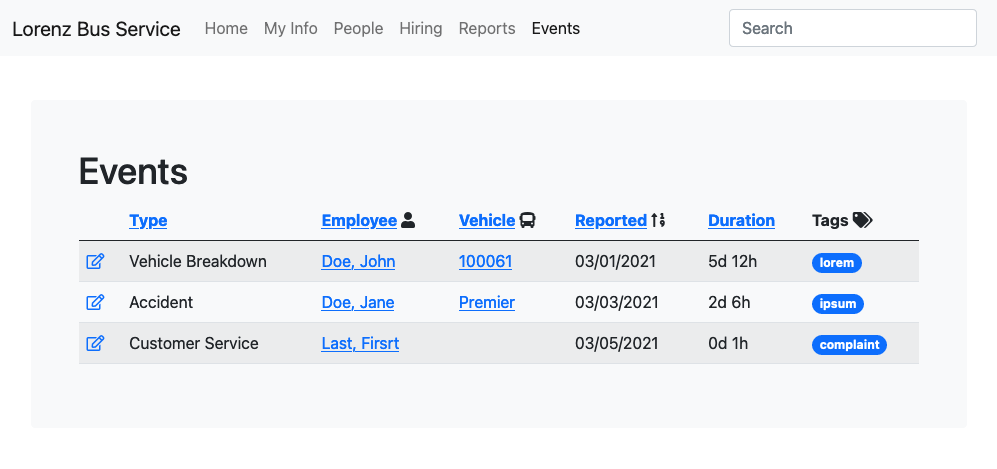
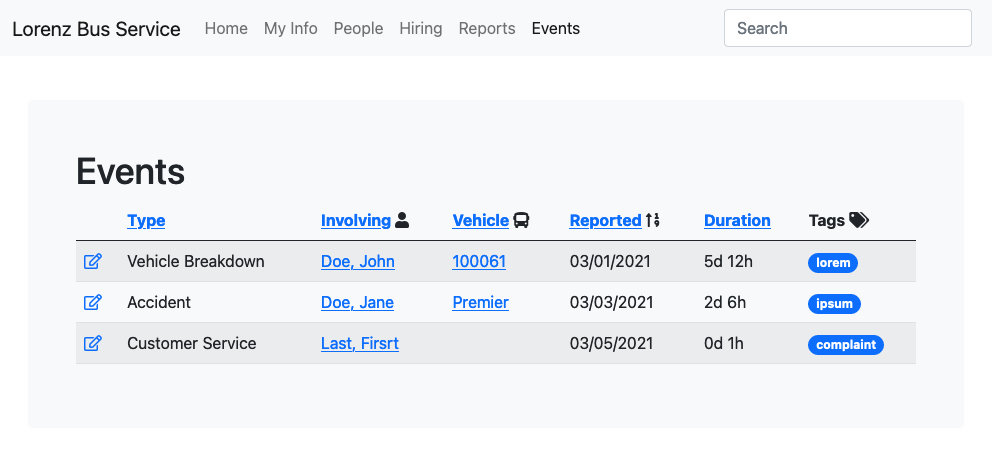
changing employee to involving

diff --git a/Event.Index.html b/Event.Index.html
@@ -60,7 +60,7 @@
               <tr>
                 <th scope="col"></th>
                 <th scope="col"><a href="">Type</a></th>
-                <th scope="col"><a href="">Employee</a> <i class="fas fa-user"></i></th>
+                <th scope="col"><a href="">Involving</a> <i class="fas fa-user"></i></th>
                 <th scope="col"><a href="">Vehicle</a> <i class="fas fa-bus"></i></th>
                 <th scope="col"><a href="">Reported</a> <i class="fas fa-sort-numeric-up"></i></th>
                 <th scope="col"><a href="">Duration</a></th>
